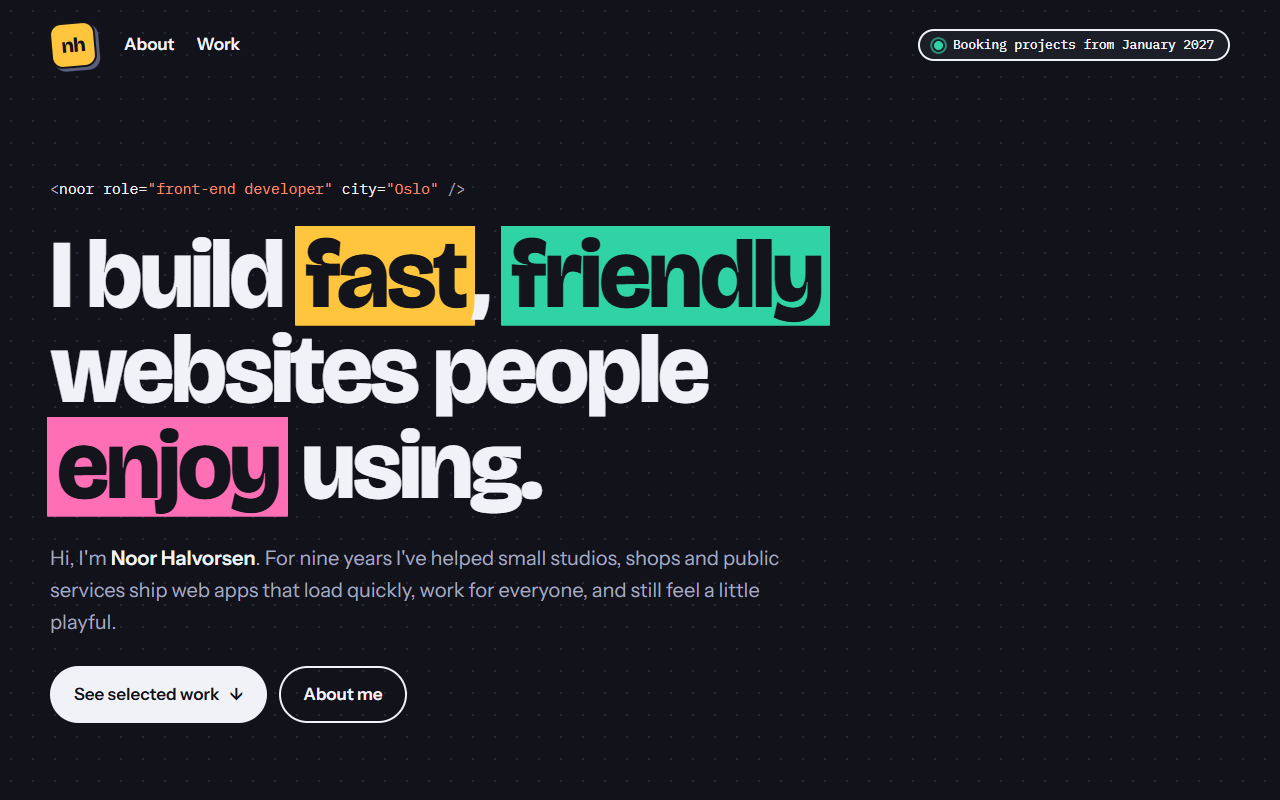
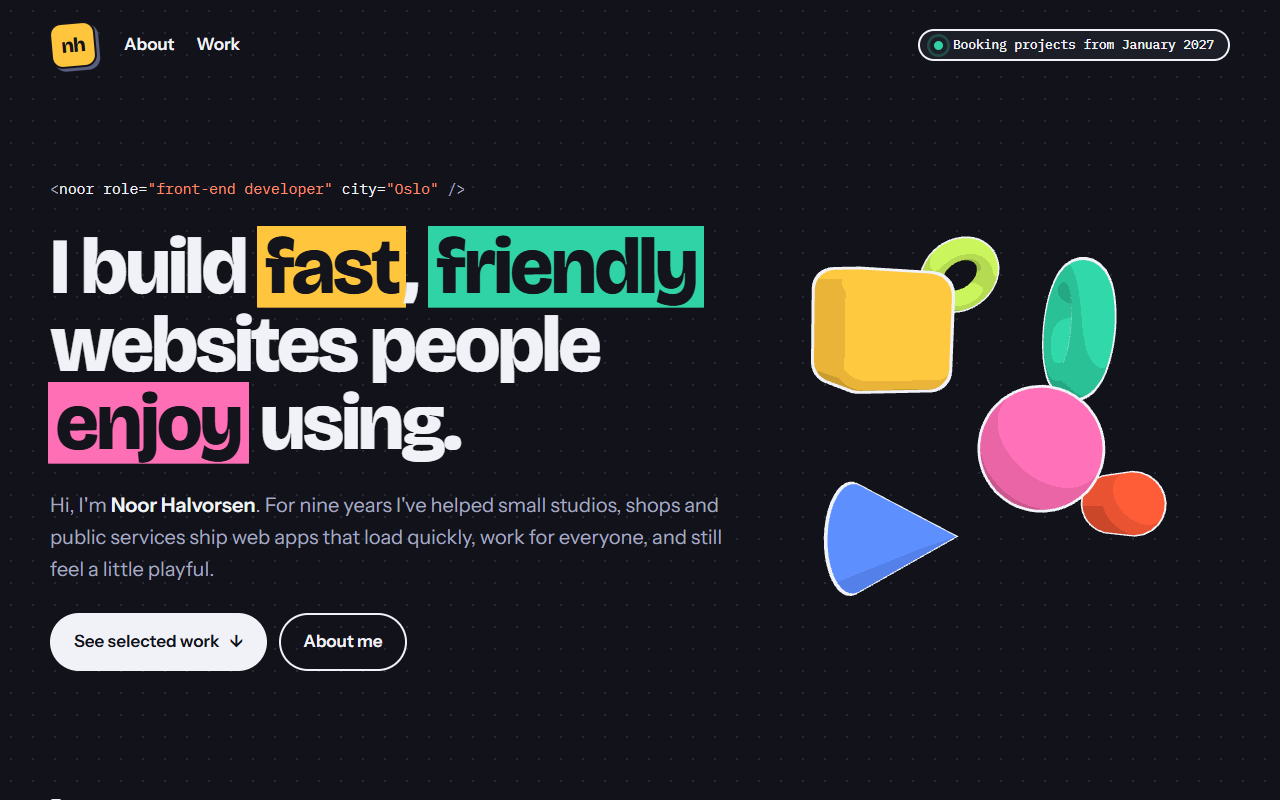
Noor: miniatura com o hero 3D e texto alternativo atualizado

Changed region(s): [[0.0312, 0.2812, 0.7812, 0.9062], [0.75, 0.3125, 0.9375, 0.6875], [0.7188, 0.0312, 0.75, 0.0625]]

diff --git a/index.html b/index.html
@@ -302,7 +302,7 @@ footer{display:flex;justify-content:space-between;gap:16px;padding:18px 0 48px;f
 
     <article class="case">
       <a class="case-media" href="./noor-portfolio/" aria-label="Open the Noor Halvorsen portfolio">
-        <img src="./thumbs/noor.png" width="1280" height="800" alt="Noor Halvorsen front-end portfolio in a dark theme with a colour-block project grid" loading="lazy">
+        <img src="./thumbs/noor.png" width="1280" height="800" alt="Noor Halvorsen portfolio: dark theme with a 3D hero of colourful cel-shaded shapes" loading="lazy">
       </a>
       <div>
         <div class="case-num">02 · Front-end &amp; design</div>
